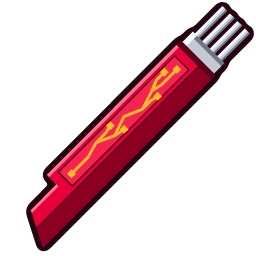
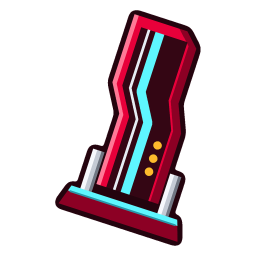
v0.11.15 - The registry check in any zone
The public files of 0.11.15, from 16e49e7 in the private repo.
What changed is in CHANGELOG.md.

diff --git a/CHANGELOG.md b/CHANGELOG.md
@@ -1,10 +1,38 @@
 # Changelog
 
+## 0.11.15 — The registry check in any zone
+
+The first release since 0.11.6 to reach the Marketplace. v0.11.12 and
+v0.11.13 are tags whose publish stopped at the test gate, and 0.11.14
+was never tagged, so all three ship in this one.
+
+- **The `overlay-registry` vector holds in any time zone.** pwsh 7
+  reads a stamp with an offset, such as `+09:00`, as local time, so its
+  read cases answered as Korea's zone does and the self-test under pwsh
+  7 failed anywhere else; CI runs it in UTC. The generator now holds
+  those cases to Korea's zone, as its other cases hold theirs to a zone
+  of their own, and the Rust check reads them at +09:00. Nothing the
+  overlay does changes.
+
+## 0.11.14 — The new shard
+
+The tray logo and the extension's icon are redrawn.
+
+- **A new shard.** The tray logo and the extension's icon are now a
+  data shard in a cradle, leaning a little right, not the red cartridge
+  on the diagonal, which read as a pepper when small. Its red casing steps
+  right at a slanted kink, a cyan core runs down a dark window and
+  follows the kink, and it stands on a base plate with a cyan edge. It
+  is still drawn from code (`skins/tools/make_chip.py`), with no logo
+  and no third-party art. The extension's icon adds a white lane, gold
+  pads and the cradle's silver posts. The tray's sits left, clear of
+  the state dot.
+
 ## 0.11.13 — Magenta on the Mac too
 
 0.11.12's release, which never shipped, with two fixes. The tag v0.11.12
 is there, but its publish stopped at the checks below, so it has no
-release and the Marketplace goes from 0.11.6 straight to this one.
+release. (Nor has this one: see 0.11.15.)
 Everything in 0.11.12 is in it.
 
 - **The macOS panel's cut-off rows are magenta,** as the Windows

diff --git a/README.md b/README.md
@@ -2192,7 +2192,7 @@ What you pick in the settings box is kept in `config.json`, like a setting made 
 **Ctrl+Alt+Shift+O** or the tray icon's menu unlocks the whole panel to drag,
 not just its bar and its tiles: it gets a red edge (blue in the light look) and an open padlock marker at its foot, whose card says how to lock it, and it locks itself again two
 minutes after the pointer leaves. The tray icon is the skin's face - the
-default skin's shard (a glossy red cartridge, a gold trace, silver prongs; the extension's icon too), or the
+default skin's shard (a leaning red data shard with a cyan core, on a base plate; the extension's icon too), or the
 pack picked in the native panel's Skin menu: its `stills/tray.png`, else its tray still
 (`skin` in `data/overlay-state.json`; the WPF panel reads it as it starts) - with a dot at its bottom right in the
 colour of the most urgent chat, ringed in red in the dark look; its tooltip, starting `Mk.5:`, counts
